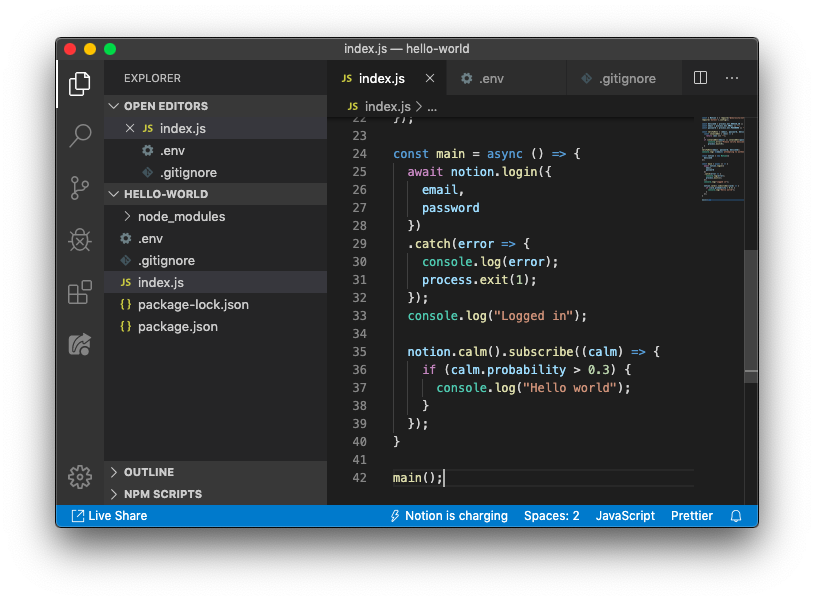
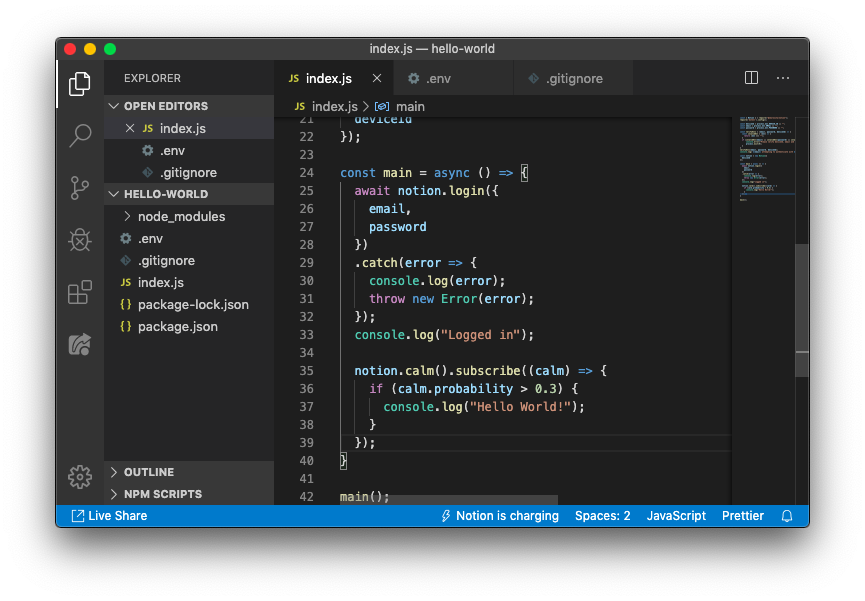
ADD: throw error and fix some grammer

diff --git a/docs/getting-started.md b/docs/getting-started.md
@@ -169,13 +169,13 @@ Your `package.json` will look like below once added:
 
 ### Run the project from the CLI
 
-Navigate back to the terminal and run `npm start` to make sure the project runs with out any errors.
+Navigate back to the terminal and run `npm start` to make sure the project runs without any errors.
 
 ```bash
 npm start
 ```
 
-You should see the program run and exit successfully
+You should see the program run and exit successfully.
 
 <p align="center">
   <img alt="Ran our node program with no errors" src="assets/images/tutorial/vscode-run-empty-program.png">
@@ -212,7 +212,7 @@ verifyEnvs(email, password, deviceId);
 console.log(`${email} attempting to authenticate to ${deviceId}`);
 ```
 
-Now if we run our program, we should see an error print out! Run with `npm start` from the CLI.
+Now, if we run our program, we should see an error print out! Run with `npm start` from the CLI.
 
 <p align="center">
   <img alt="Ran our node program with no errors" src="assets/images/tutorial/vscode-no-env-found.png">
@@ -220,7 +220,7 @@ Now if we run our program, we should see an error print out! Run with `npm start
 
 ### Add `.env` file
 
-Next we'll add an `.env` to store our deviceId, login, and password. Add a new file called `.env` and add your deviceId, email and password. Learn how to [find your device ID](https://support.neurosity.co/hc/en-us/articles/360037198152-Get-Notion-Device-ID).
+Next, we'll add a `.env` to store our deviceId, login, and password. Add a new file called `.env` and add your deviceId, email, and password. Learn how to [find your device ID](https://support.neurosity.co/hc/en-us/articles/360037198152-Get-Notion-Device-ID).
 
 ```.env
 DEVICE_ID=442333d1bcea35533daba9b51234abcd
@@ -232,7 +232,7 @@ PASSWORD=Password#1!
   <img alt="Created a new file called .env" src="assets/images/tutorial/vscode-env-file.png">
 </p>
 
-Now if we run our program, we should see a success message print out, informing us that our variables have been extracted successfully.
+Now, if we run our program, we should see a success message print out, informing us that our variables have been extracted successfully.
 
 <p align="center">
   <img alt="Pulled out three variables from .env" src="assets/images/tutorial/vscode-got-env-variables.png">
@@ -250,7 +250,7 @@ const notion = new Notion({
 
 ### Add async login
 
-We need to use an [`async/await`](https://javascript.info/async-await) paradigm for authenticating to the device. Go ahead and create an async functinon called `main` to the `index.js` file.
+We need to use an [`async/await`](https://javascript.info/async-await) paradigm for authenticating to the device. Go ahead and create an async function called `main` to the `index.js` file.
 
 ```js
 const main = async () => {
@@ -260,7 +260,7 @@ const main = async () => {
   })
   .catch(error => {
     console.log(error);
-    process.exit(1);
+    throw new Error(error);
   });
   console.log("Logged in");
 }
@@ -276,7 +276,7 @@ Then run the program with `npm start` in the CLI. If all worked, then you should
 
 ## Add Calm Subscription
 
-Now that you have authenticated, let's print out hello world when you're calm increases passed 0.3, a significant number.
+Now that you are authenticated, print out hello world when you're calm increases past 0.3, a significant number.
 
 Add the following code to your main() function after login.
 
@@ -293,7 +293,6 @@ Your index.js file is now ready to print `Hello World!`
 <p align="center">
   <img alt="Add code to subscribe to Notion calm score" src="assets/images/tutorial/vscode-main-calm-subscribe.png">
 </p>
-
 
 ## Dive right into development
 
